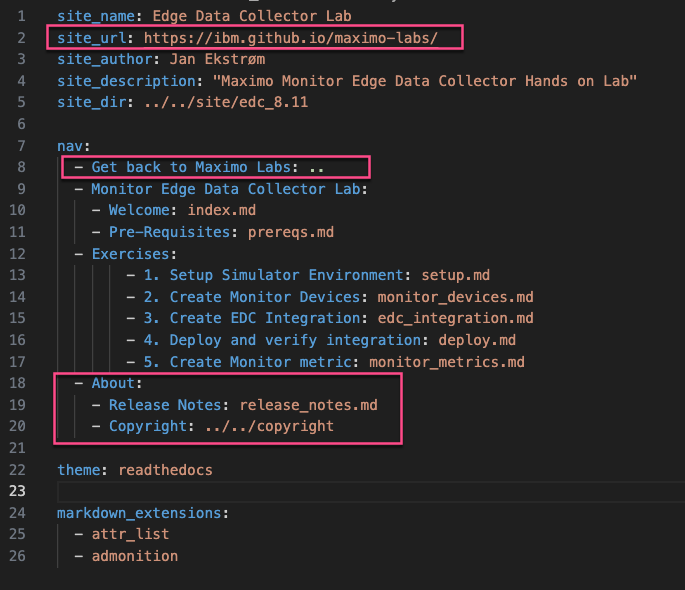
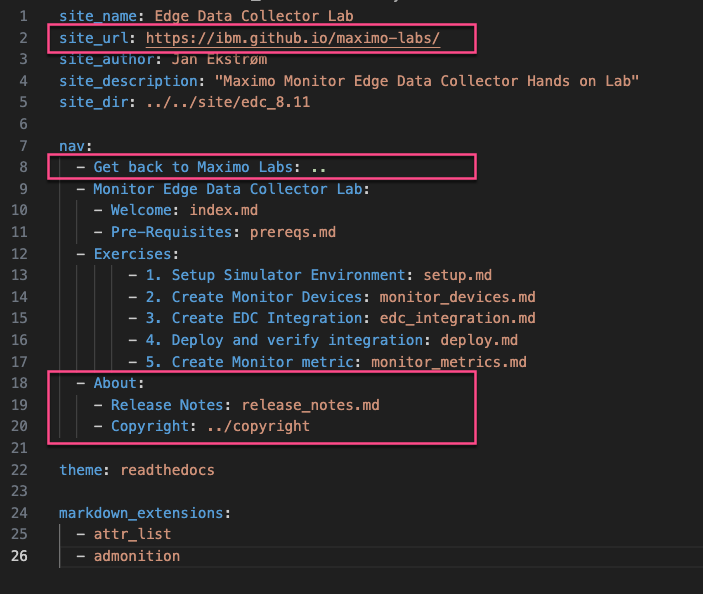
updated copyright link

Changed region(s): [[0.0, 0.2441, 0.7971, 0.9763], [0.0613, 0.0, 0.9197, 0.1831], [0.0307, 0.122, 0.0613, 0.1525]]

diff --git a/MkDocs/github_pages/docs/mkdocs_yml.md b/MkDocs/github_pages/docs/mkdocs_yml.md
@@ -2,12 +2,12 @@
 The mkdocs.yml file for all labs needs to be updated with the following:
 
 * Site information
-* Link to Home changhed to relative URL (..)
+* Link to Home changed to relative URL (..)
 * New About section
 
 The About information has changed to be a separate section.</br>
 The about.md file must be renamed to release_notes.md and the information about contributers and change information is kept.</br>
-The about section to include link to one common Copyright page (../../copyright) instead of being a part of the about.md file => easier to maintain in one place only on the top level.
+The about section to include link to one common Copyright page (../copyright) instead of being a part of the about.md file => easier to maintain in one place only on the top level.
 
 ## Before
 ![mkdocs.yml Before](img/mkdocs_yml_updates_01.png)
